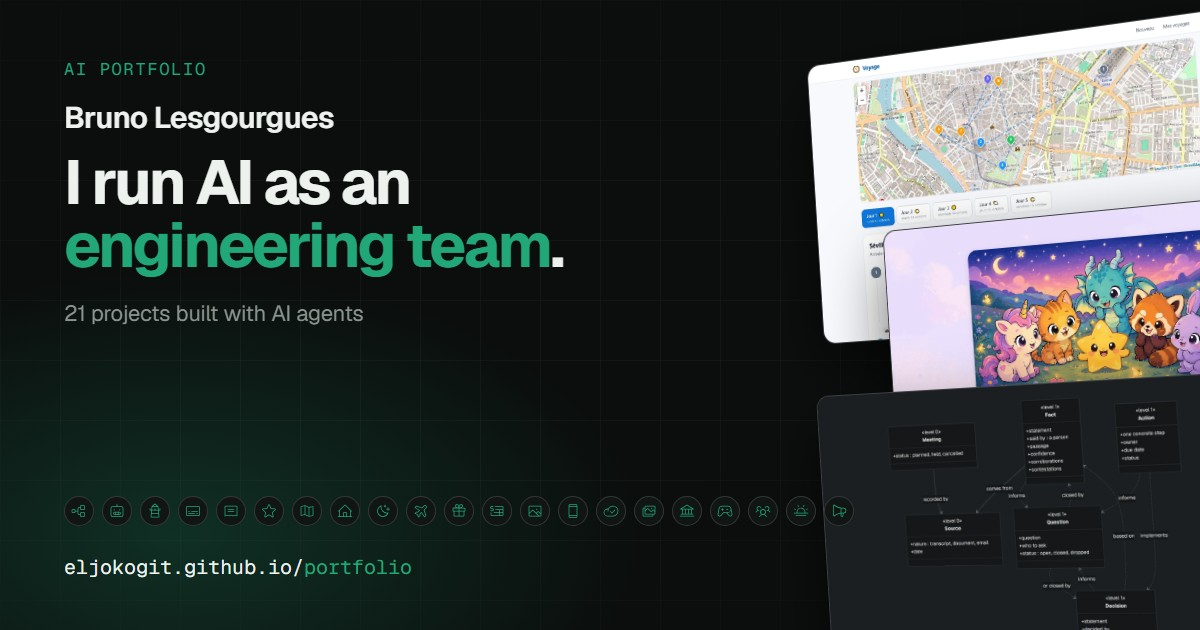
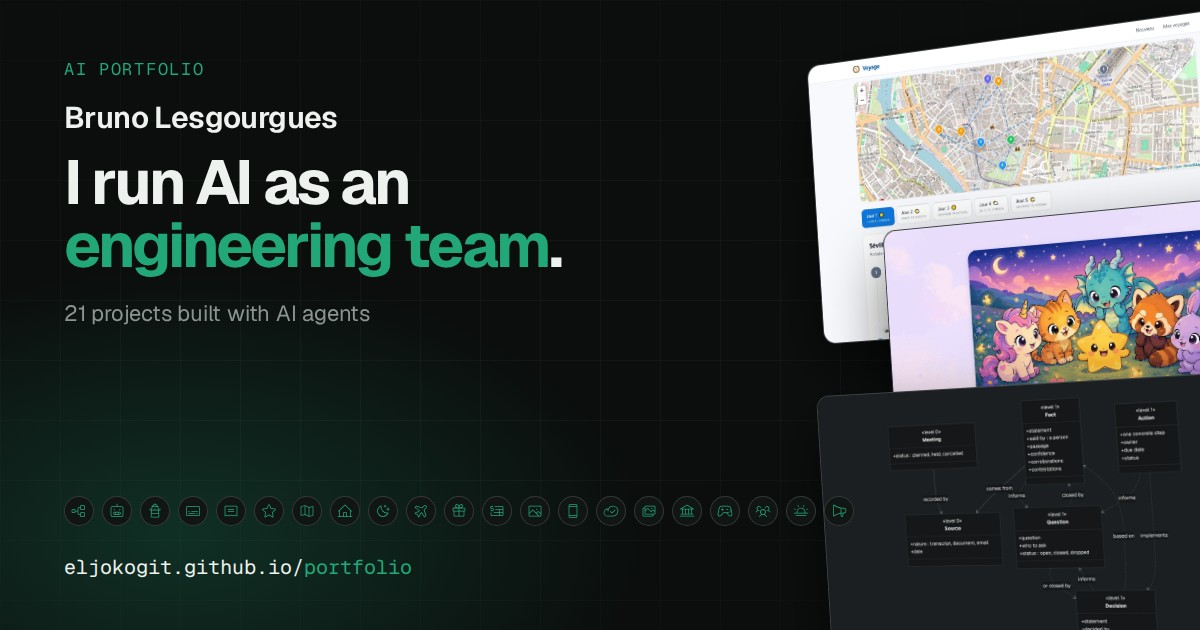
Étoilia : période prolongée, session de mise en ligne dédiée

diff --git a/fr/projets/etoilia/index.html b/fr/projets/etoilia/index.html
@@ -53,7 +53,7 @@
       <div class="phead__row">
         <dl class="meta">
           <div><dt>Catégorie</dt><dd>Applications</dd></div>
-          <div><dt>Période</dt><dd>Juin à octobre 2026</dd></div>
+          <div><dt>Période</dt><dd>Juin à novembre 2026</dd></div>
           <div><dt>Statut</dt><dd>Utilisée chaque jour par ma fille, ouverte aux autres familles</dd></div>
         </dl>
         
@@ -94,7 +94,7 @@
   <div><h3>La mémoire du projet</h3><p>Le CLAUDE.md ne garde que les règles, en 493 lignes. Le récit va dans un journal de 8 644 lignes qui commence par l'état actuel : l'agent reprend sans rien réapprendre.</p></div>
 </li><li class="point" data-reveal style="--i:0">
   <span class="point__icon"><svg class="icon" aria-hidden="true" focusable="false" xmlns="http://www.w3.org/2000/svg" viewBox="0 0 256 256" fill="currentColor"><path d="M230,64a30,30,0,1,0-36,29.4V112a10,10,0,0,1-10,10H96a21.84,21.84,0,0,0-10,2.42v-31a30,30,0,1,0-12,0v69.2a30,30,0,1,0,12,0V144a10,10,0,0,1,10-10h88a22,22,0,0,0,22-22V93.4A30.05,30.05,0,0,0,230,64ZM62,64A18,18,0,1,1,80,82,18,18,0,0,1,62,64ZM98,192a18,18,0,1,1-18-18A18,18,0,0,1,98,192ZM200,82a18,18,0,1,1,18-18A18,18,0,0,1,200,82Z"/></svg></span>
-  <div><h3>Plusieurs agents sur le même code</h3><p>Plusieurs sessions travaillent en parallèle, chacune dans sa copie isolée. `npm run integrer` rebase, attribue le numéro de version à ce moment-là, lance les tests et seulement ensuite avance master.</p></div>
+  <div><h3>Plusieurs agents sur le même code</h3><p>Plusieurs sessions travaillent en parallèle, chacune dans sa copie isolée. Depuis novembre, aucune ne met en ligne seule : une session de mise en ligne dédiée regroupe les lots prêts, attribue le numéro de version, lance toute la batterie de tests et ne publie qu'après mon feu vert.</p></div>
 </li><li class="point" data-reveal style="--i:1">
   <span class="point__icon"><svg class="icon" aria-hidden="true" focusable="false" xmlns="http://www.w3.org/2000/svg" viewBox="0 0 256 256" fill="currentColor"><path d="M232,50H160a38,38,0,0,0-32,17.55A38,38,0,0,0,96,50H24a6,6,0,0,0-6,6V200a6,6,0,0,0,6,6H96a26,26,0,0,1,26,26,6,6,0,0,0,12,0,26,26,0,0,1,26-26h72a6,6,0,0,0,6-6V56A6,6,0,0,0,232,50ZM96,194H30V62H96a26,26,0,0,1,26,26V204.31A37.86,37.86,0,0,0,96,194Zm130,0H160a37.87,37.87,0,0,0-26,10.32V88a26,26,0,0,1,26-26h66ZM160,90h40a6,6,0,0,1,0,12H160a6,6,0,0,1,0-12Zm46,38a6,6,0,0,1-6,6H160a6,6,0,0,1,0-12h40A6,6,0,0,1,206,128Zm0,32a6,6,0,0,1-6,6H160a6,6,0,0,1,0-12h40A6,6,0,0,1,206,160Z"/></svg></span>
   <div><h3>Une fabrique à histoires</h3><p>Un skill Claude Code transforme un compagnon en livre : bible de l'histoire, 15 pages, tableaux peints, voix et bruitages. Les voix et les sons rejoignent des banques communes, réutilisées d'une histoire à l'autre.</p></div>

diff --git a/es/proyectos/etoilia/index.html b/es/proyectos/etoilia/index.html
@@ -53,7 +53,7 @@
       <div class="phead__row">
         <dl class="meta">
           <div><dt>Categoría</dt><dd>Aplicaciones</dd></div>
-          <div><dt>Periodo</dt><dd>De junio a octubre de 2026</dd></div>
+          <div><dt>Periodo</dt><dd>De junio a noviembre de 2026</dd></div>
           <div><dt>Estado</dt><dd>Mi hija la usa cada día, abierta a otras familias</dd></div>
         </dl>
         
@@ -94,7 +94,7 @@
   <div><h3>La memoria del proyecto</h3><p>El CLAUDE.md solo guarda las reglas, en 493 líneas. El relato va a un registro de 8644 líneas que empieza por el estado actual: el agente retoma el trabajo sin reaprender nada.</p></div>
 </li><li class="point" data-reveal style="--i:0">
   <span class="point__icon"><svg class="icon" aria-hidden="true" focusable="false" xmlns="http://www.w3.org/2000/svg" viewBox="0 0 256 256" fill="currentColor"><path d="M230,64a30,30,0,1,0-36,29.4V112a10,10,0,0,1-10,10H96a21.84,21.84,0,0,0-10,2.42v-31a30,30,0,1,0-12,0v69.2a30,30,0,1,0,12,0V144a10,10,0,0,1,10-10h88a22,22,0,0,0,22-22V93.4A30.05,30.05,0,0,0,230,64ZM62,64A18,18,0,1,1,80,82,18,18,0,0,1,62,64ZM98,192a18,18,0,1,1-18-18A18,18,0,0,1,98,192ZM200,82a18,18,0,1,1,18-18A18,18,0,0,1,200,82Z"/></svg></span>
-  <div><h3>Varios agentes sobre el mismo código</h3><p>Varias sesiones trabajan en paralelo, cada una en su propia copia aislada. `npm run integrer` hace rebase, asigna el número de versión en ese momento, ejecuta los tests y solo entonces avanza master.</p></div>
+  <div><h3>Varios agentes sobre el mismo código</h3><p>Varias sesiones trabajan en paralelo, cada una en su propia copia aislada. Desde noviembre, ninguna publica sola: una sesión de publicación dedicada reúne los lotes listos, asigna el número de versión, ejecuta toda la batería de tests y solo publica tras mi visto bueno.</p></div>
 </li><li class="point" data-reveal style="--i:1">
   <span class="point__icon"><svg class="icon" aria-hidden="true" focusable="false" xmlns="http://www.w3.org/2000/svg" viewBox="0 0 256 256" fill="currentColor"><path d="M232,50H160a38,38,0,0,0-32,17.55A38,38,0,0,0,96,50H24a6,6,0,0,0-6,6V200a6,6,0,0,0,6,6H96a26,26,0,0,1,26,26,6,6,0,0,0,12,0,26,26,0,0,1,26-26h72a6,6,0,0,0,6-6V56A6,6,0,0,0,232,50ZM96,194H30V62H96a26,26,0,0,1,26,26V204.31A37.86,37.86,0,0,0,96,194Zm130,0H160a37.87,37.87,0,0,0-26,10.32V88a26,26,0,0,1,26-26h66ZM160,90h40a6,6,0,0,1,0,12H160a6,6,0,0,1,0-12Zm46,38a6,6,0,0,1-6,6H160a6,6,0,0,1,0-12h40A6,6,0,0,1,206,128Zm0,32a6,6,0,0,1-6,6H160a6,6,0,0,1,0-12h40A6,6,0,0,1,206,160Z"/></svg></span>
   <div><h3>Una fábrica de historias</h3><p>Un skill de Claude Code convierte a un compañero en un libro: biblia de la historia, 15 páginas, cuadros pintados, voces y efectos de sonido. Las voces y los sonidos van a bancos comunes, reutilizados de una historia a otra.</p></div>

diff --git a/projects/etoilia/index.html b/projects/etoilia/index.html
@@ -53,7 +53,7 @@
       <div class="phead__row">
         <dl class="meta">
           <div><dt>Category</dt><dd>Apps</dd></div>
-          <div><dt>Period</dt><dd>June to October 2026</dd></div>
+          <div><dt>Period</dt><dd>June to November 2026</dd></div>
           <div><dt>Status</dt><dd>Used every day by my daughter, open to other families</dd></div>
         </dl>
         
@@ -94,7 +94,7 @@
   <div><h3>Project memory</h3><p>CLAUDE.md holds only the rules, in 493 lines. The story goes into an 8,644-line log that opens with the current state, so the agent resumes without relearning anything.</p></div>
 </li><li class="point" data-reveal style="--i:0">
   <span class="point__icon"><svg class="icon" aria-hidden="true" focusable="false" xmlns="http://www.w3.org/2000/svg" viewBox="0 0 256 256" fill="currentColor"><path d="M230,64a30,30,0,1,0-36,29.4V112a10,10,0,0,1-10,10H96a21.84,21.84,0,0,0-10,2.42v-31a30,30,0,1,0-12,0v69.2a30,30,0,1,0,12,0V144a10,10,0,0,1,10-10h88a22,22,0,0,0,22-22V93.4A30.05,30.05,0,0,0,230,64ZM62,64A18,18,0,1,1,80,82,18,18,0,0,1,62,64ZM98,192a18,18,0,1,1-18-18A18,18,0,0,1,98,192ZM200,82a18,18,0,1,1,18-18A18,18,0,0,1,200,82Z"/></svg></span>
-  <div><h3>Several agents on the same code</h3><p>Several sessions work in parallel, each in its own worktree. `npm run integrer` rebases, assigns the version number at that moment, runs the tests and only then moves master forward.</p></div>
+  <div><h3>Several agents on the same code</h3><p>Several sessions work in parallel, each in its own worktree. Since November, none of them ships on its own: a dedicated release session gathers the ready batches, assigns the version number, runs the full test suite, and goes live only after my go-ahead.</p></div>
 </li><li class="point" data-reveal style="--i:1">
   <span class="point__icon"><svg class="icon" aria-hidden="true" focusable="false" xmlns="http://www.w3.org/2000/svg" viewBox="0 0 256 256" fill="currentColor"><path d="M232,50H160a38,38,0,0,0-32,17.55A38,38,0,0,0,96,50H24a6,6,0,0,0-6,6V200a6,6,0,0,0,6,6H96a26,26,0,0,1,26,26,6,6,0,0,0,12,0,26,26,0,0,1,26-26h72a6,6,0,0,0,6-6V56A6,6,0,0,0,232,50ZM96,194H30V62H96a26,26,0,0,1,26,26V204.31A37.86,37.86,0,0,0,96,194Zm130,0H160a37.87,37.87,0,0,0-26,10.32V88a26,26,0,0,1,26-26h66ZM160,90h40a6,6,0,0,1,0,12H160a6,6,0,0,1,0-12Zm46,38a6,6,0,0,1-6,6H160a6,6,0,0,1,0-12h40A6,6,0,0,1,206,128Zm0,32a6,6,0,0,1-6,6H160a6,6,0,0,1,0-12h40A6,6,0,0,1,206,160Z"/></svg></span>
   <div><h3>A story factory</h3><p>A Claude Code skill turns a companion into a book: story bible, 15 pages, painted pictures, voices and sound effects. Voices and sounds go into shared banks, reused from one story to the next.</p></div>
